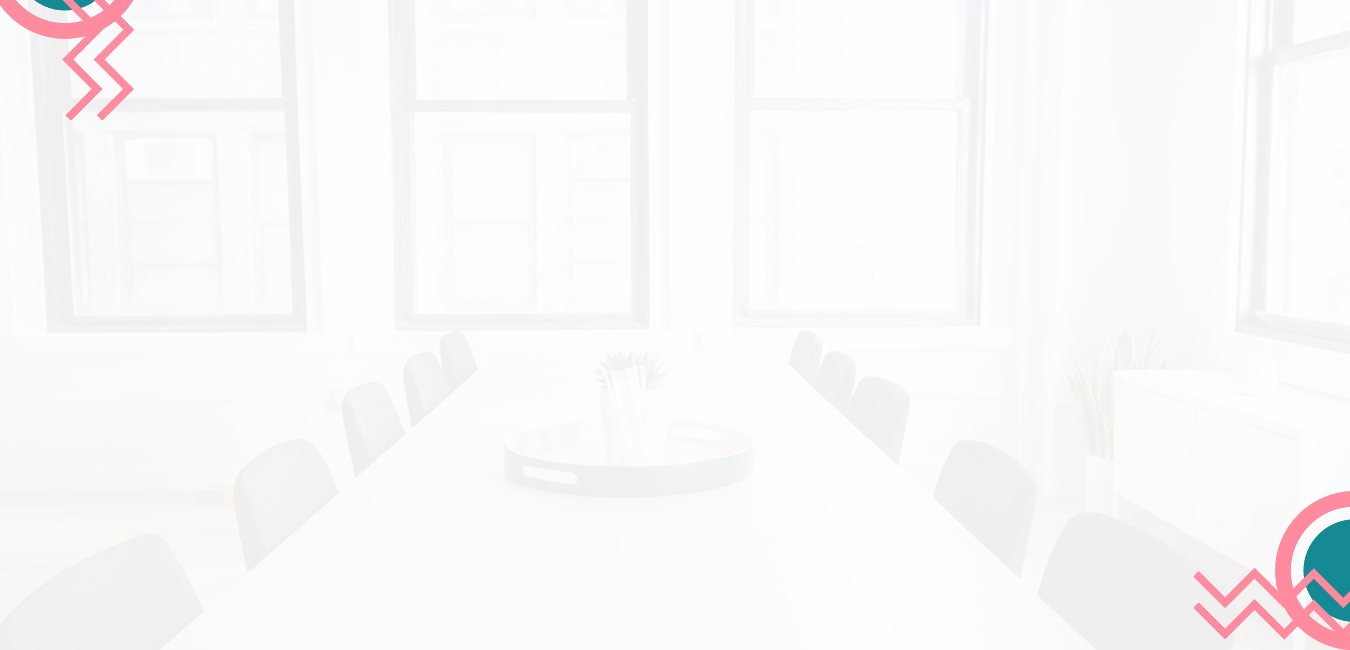
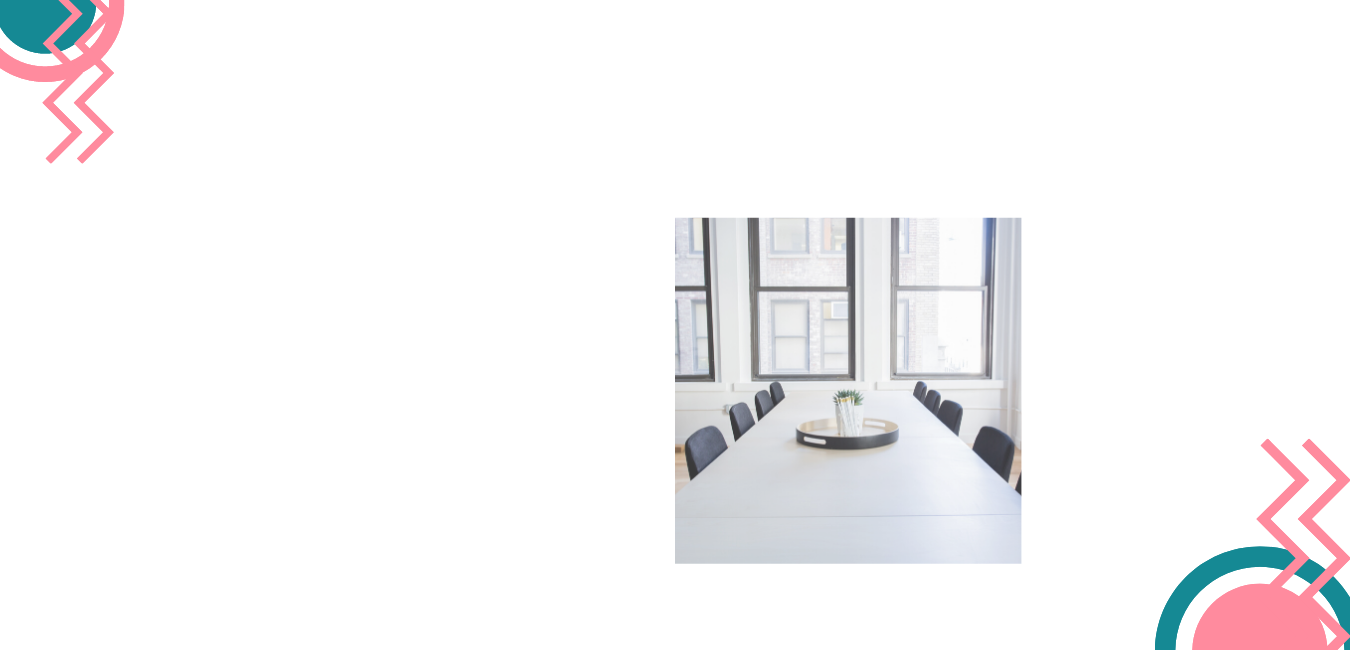
updated

Changed region(s): [[0.4978, 0.3077, 0.7778, 0.8923], [0.84, 0.6769, 1.0, 1.0], [0.0, 0.0, 0.0933, 0.2462]]

diff --git a/src/Components/FirstPage/FirstPage.js b/src/Components/FirstPage/FirstPage.js
@@ -5,6 +5,7 @@ import Row from 'react-bootstrap/Row';
 import Col from 'react-bootstrap/Col';
 import Card from 'react-bootstrap/Card';
 import Button from 'react-bootstrap/Button';
+import Image from 'react-bootstrap/Image'
 import '../FirstPage/FirstPage.css'
 
 import marketing from '../../Images/marketing.jpg';
@@ -16,7 +17,14 @@ const FirstPage = () => {
   return (
     <>
       <Jumbotron className="jumbo">
-      <Container className="HPLinks">
+      <Container className="header">
+      <h1 className="headerTitle">MARKETING</h1>
+      <h1 className="headerTitle">AGENCY</h1>
+      </Container>
+      
+    <Container className="HPLinks" fluid={true}>
+       
+      
       <a className="link" href="url">MARKETING</a>
       <a className="link" href="url">WEB DEVELOPMENT</a>
       <a className="link" href="url">STRATEGY</a>
@@ -26,20 +34,55 @@ const FirstPage = () => {
       <Container fluid={true}>
         <Row className="aboutSection">
           <Col lg={12} className="aboutSection">
+            <Container className="about">
             <h1 className="aboutUsTitle">ABOUT US</h1>
             <p className="aboutUsText">
               Founded by 3 women, MOJO is a marketing agency based in Brussels, Belgium.<br/>
               We focus on all things digital, such as marketing, web development, design and more.
+              Give your  business the digital boost it needs. 
               <hr/>
-              Read all about us <a href="" >here!</a>
+              Read all about us <a href="#" >here!</a>
           </p>
+          </Container>
           </Col>
         </Row>
       </Container>
-      <Container fluid={true}>
-        <Row className="servicesSection">
+
+      <Container fluid={true} className="servicesSection">
+        <Row >
           <Col lg={12}>
-            <h1 className="servicesTitle">SERVICES</h1>
+            <h1 className="servicesTitle">OUR SERVICES</h1>
+          </Col> 
+          </Row>
+       <Row className="services">
+          <Col className="serviceImgWrap" lg={4}>
+          
+          <Image className="servicesImg" src={marketing} roundedCircle />
+          <h2 className="hpserv">Marketing</h2>
+          </Col>
+          <Col className="serviceImgWrap" lg={4}>
+          
+          <Image className="servicesImg" src={webdev} roundedCircle />
+          <h2 className="hpserv">Development & Design</h2>
+          </Col>
+          <Col className="serviceImgWrap" lg={4}>
+          
+          <Image className="servicesImg" src={strategy} roundedCircle />
+          <h2 className="hpserv">Digital Strategy</h2>
+          </Col>
+        </Row>
+        <Row>
+          <Col className="serviceImgWrap" lg={12}>        
+          <Button className="servBtn" href="#">read more about our services</Button>
+        </Col>
+        </Row>
+      </Container>
+
+
+      <Container fluid={true}>
+        <Row className="testimonialSection">
+          <Col lg={12}>
+            <h1 className="testimonialTitle">TESTIMONIALS</h1>
             <Container className="center">
             <Row>
               <Col className="servicesCards col d-flex justify-content-center">
@@ -50,7 +93,7 @@ const FirstPage = () => {
                   Some quick example text to build on the card title and make up the bulk of
                   the card's content.
                 </Card.Text>
-                <Button variant="primary">Marketing</Button>
+                <Button className="testBtn" variant="primary">Go to testimonial</Button>
               </Card.Body>
             </Card>
             </Col>
@@ -62,7 +105,7 @@ const FirstPage = () => {
                   Some quick example text to build on the card title and make up the bulk of
                   the card's content.
                 </Card.Text>
-                <Button variant="primary">Web Development</Button>
+                <Button className="testBtn" variant="primary">Go to testimonial</Button>
               </Card.Body>
             </Card>
             </Col>
@@ -74,7 +117,7 @@ const FirstPage = () => {
                   Some quick example text to build on the card title and make up the bulk of
                   the card's content.
                 </Card.Text>
-                <Button variant="primary">Strategy</Button>
+                <Button className="testBtn" variant="primary">Go to testimonial</Button>
               </Card.Body>
             </Card>
             </Col>
@@ -83,6 +126,8 @@ const FirstPage = () => {
           </Col>
         </Row>
       </Container>
+
+      
     </>
   );
 }

diff --git a/src/Components/FirstPage/FirstPage.css b/src/Components/FirstPage/FirstPage.css
@@ -4,6 +4,8 @@ height: 50vw !important;
 background-repeat: no-repeat;
 background-position: center;
 background-size: cover;
+text-align: center;
+
 }
 
 .aboutSection {
@@ -12,6 +14,15 @@ background-size: cover;
     background-position: center;
     height: 50vw !important;
     background-repeat: no-repeat;
+}
+
+.about{
+    background-color: #FF8B9E;
+    width: 30vw;
+    height: 30vw;
+    margin-right: 45vw;
+    margin-top: 5vw;
+    z-index: 1;
 }
 
 
@@ -23,12 +34,29 @@ background-size: cover;
 }
 
 h1 {
-    font-family: 'Anton', sans-serif;
+    font-family: 'Roboto', sans-serif;   
     font-size: 70px;
+   
+}
+
+.headerTitle {
+    color: white;
+    text-align: center;
+    font-weight: bolder;
+    letter-spacing:14px;
+  text-indent:7px;
+    font-size: 8rem !important;
+}
+
+.header {
+    display: flex;
+    justify-content: center;
+    flex-direction: column;
+    padding-top: 10vw;
 }
 
 .aboutUsTitle {
-    color:#158994 ;
+    color:white ;
     padding-top: 12%;
     text-align: left;
     padding-left: 10%;
@@ -38,9 +66,9 @@ h1 {
     padding-right: 5%;
     text-align: left;
     padding-left: 10%;
-
+    font-weight: bold;
     padding-top: 2%;
-    font-family: 'Raleway', sans-serif;
+    font-family: 'Roboto', sans-serif;
     font-size: 20px;
 }
 
@@ -48,7 +76,7 @@ h1 {
     text-align: center;
     padding-top: 5%;
     padding-bottom: 5%;
-    color: #FF8B9E ;
+    color: white ;
 }
 
 .servicesCards {
@@ -60,22 +88,88 @@ h1 {
 }
 
 .HPLinks {
-    text-align: center;
-    padding-top: 28%;
+  text-align: center;
+   
+  
 }
 
 .link {
-    color: white;
+    color: #FF8B9E;
     margin: 2%;
     font-size: 20px;
-    font-family: 'Raleway', sans-serif;
+    font-family: 'Roboto', sans-serif;
     font-weight: bolder;
 }
 
 .link:hover {
-    color: #FF8B9E;
+    color: white;
     text-decoration: none;
+}
+
+.testimonialSection {
+    background-image: url(../../Images/HP-testimonials.png);
+    background-size: cover;
+    height: 50vw !important;
+    background-repeat: no-repeat;
+}
+
+.testimonialTitle {
+    text-align: center;
+    padding-top: 5%;
+    padding-bottom: 5%;
+    color: #188A95 ;
+}
+
+.hpserv{
+    text-align: center;
+    text-transform: uppercase;
+    color: white; 
+    font-family: 'Roboto', sans-serif;
+    padding-top: 2vw;
+}
+
+.servicesImg{
+    width: 15vw;
+    height: 15vw;
+}
+
+.services{
+    display: flex;
+    align-items: center !important;
+    padding-left: 5vw;
+    padding-right: 5vw;
+}
+
+.serviceImgWrap {
+    display: flex;
+    justify-content: center;
+    flex-direction: column;
+    align-items: center;
+   
+}
+
+.servBtn {
+    text-align: center;
+    margin-top: 5vw; 
+    background-color:#188A95 !important;
+    color:white;  
+    border: 1px solid #188A95;
+    font-family: 'Roboto', sans-serif;
+    font-size: 20px;
 }
 
 
 
+.testBtn {
+    text-align: center;
+    color:#188A95;  
+    border: 1px solid #188A95;
+    font-family: 'Roboto', sans-serif;
+    background-color: unset !important;
+}
+
+.testBtn:hover {
+    background-color:#188A95 !important;
+    color: white; 
+    border: unset;
+}

diff --git a/public/index.html b/public/index.html
@@ -25,8 +25,8 @@
       Learn how to configure a non-root public URL by running `npm run build`.
     -->
     <link href="https://fonts.googleapis.com/css2?family=Anton&display=swap" rel="stylesheet">
-    <link href="https://fonts.googleapis.com/css2?family=Raleway:wght@200&display=swap" rel="stylesheet">
-    <title>React App</title>
+    <link href="https://fonts.googleapis.com/css2?family=Roboto:wght@100&display=swap" rel="stylesheet">    
+    <title>MOJO marketing agency</title>
   </head>
   <body>
     <noscript>You need to enable JavaScript to run this app.</noscript>

diff --git a/src/Components/Navbar/Navbar.js b/src/Components/Navbar/Navbar.js
@@ -1,6 +1,5 @@
 import React from 'react';
 import {
-    BrowserRouter as Router,
     Link
   } from "react-router-dom";
 
@@ -18,7 +17,6 @@ import logo from '../../Images/MOJO-nav.png';
 
 const NavBar = () => {
     return (
-        <Router basename={`${process.env.PUBLIC_URL}/`}>
         <Container className="p-0" fluid={true}>
         <Navbar sticky="top" className="border-bottom nav" expand="lg">
         <Navbar.Brand href="/">
@@ -41,7 +39,6 @@ const NavBar = () => {
         </Navbar>       
 
       </Container>
-    </Router>
     )
 }
 

diff --git a/src/App.js b/src/App.js
@@ -16,7 +16,7 @@ const App = (props) => (
       <Route exact path="/">
         <FirstPage />
       </Route>
-      <Route exact path="/about">
+      <Route path="/about">
         <About />
       </Route>
       <Route path="/services">
